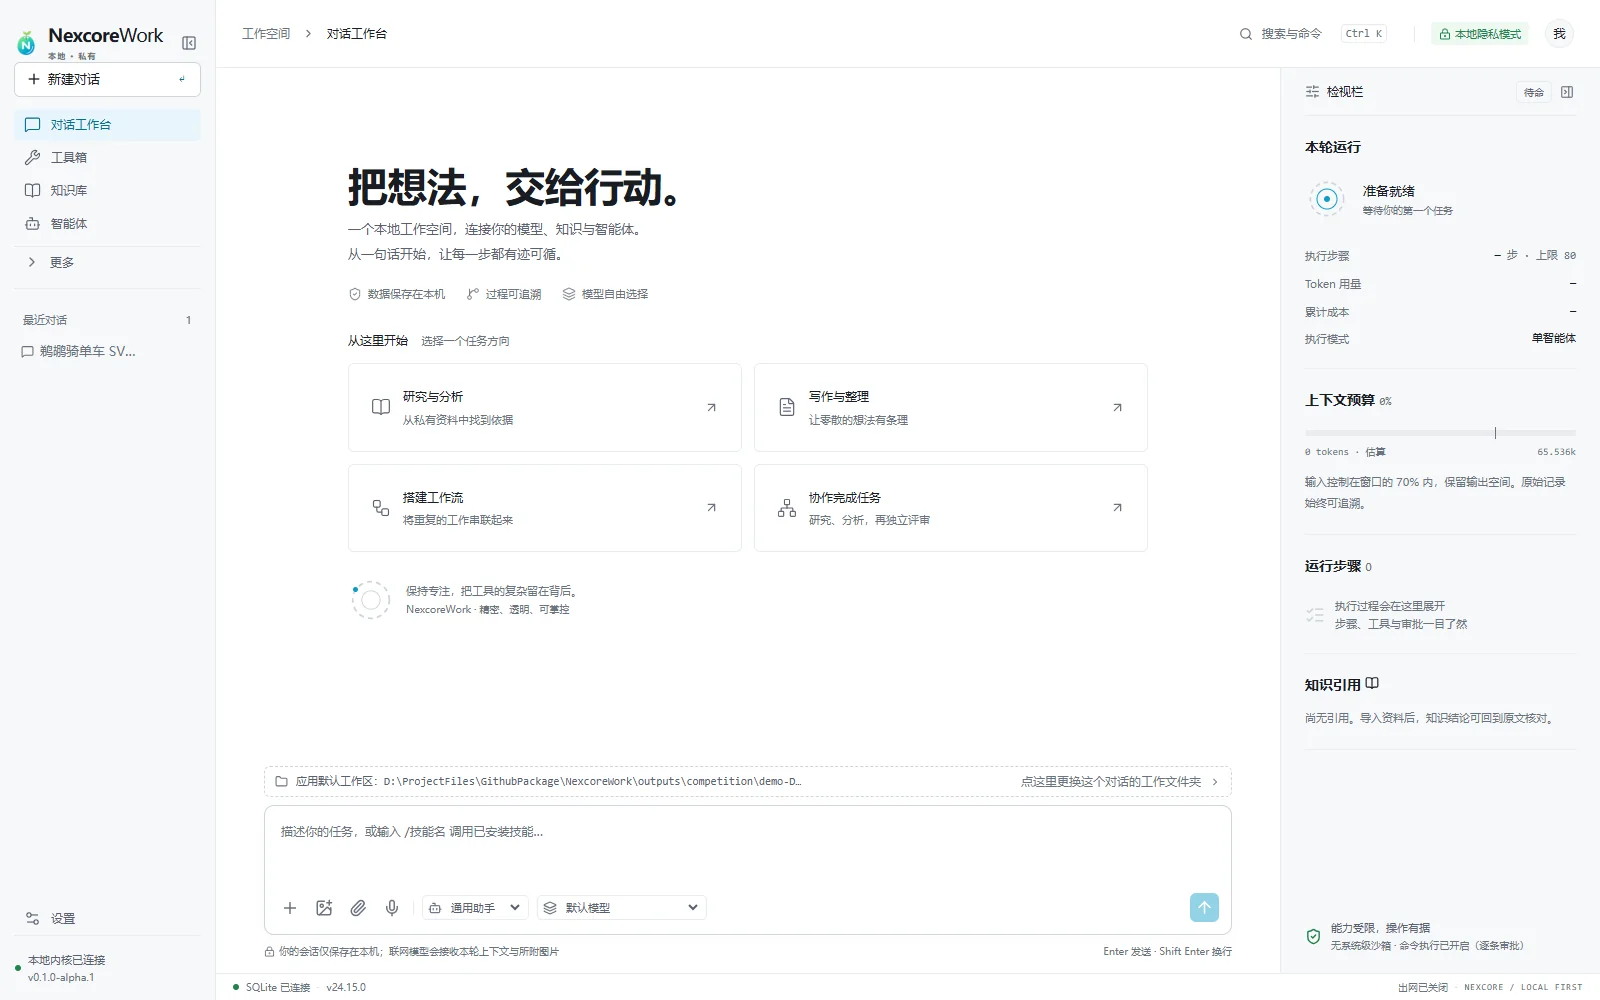
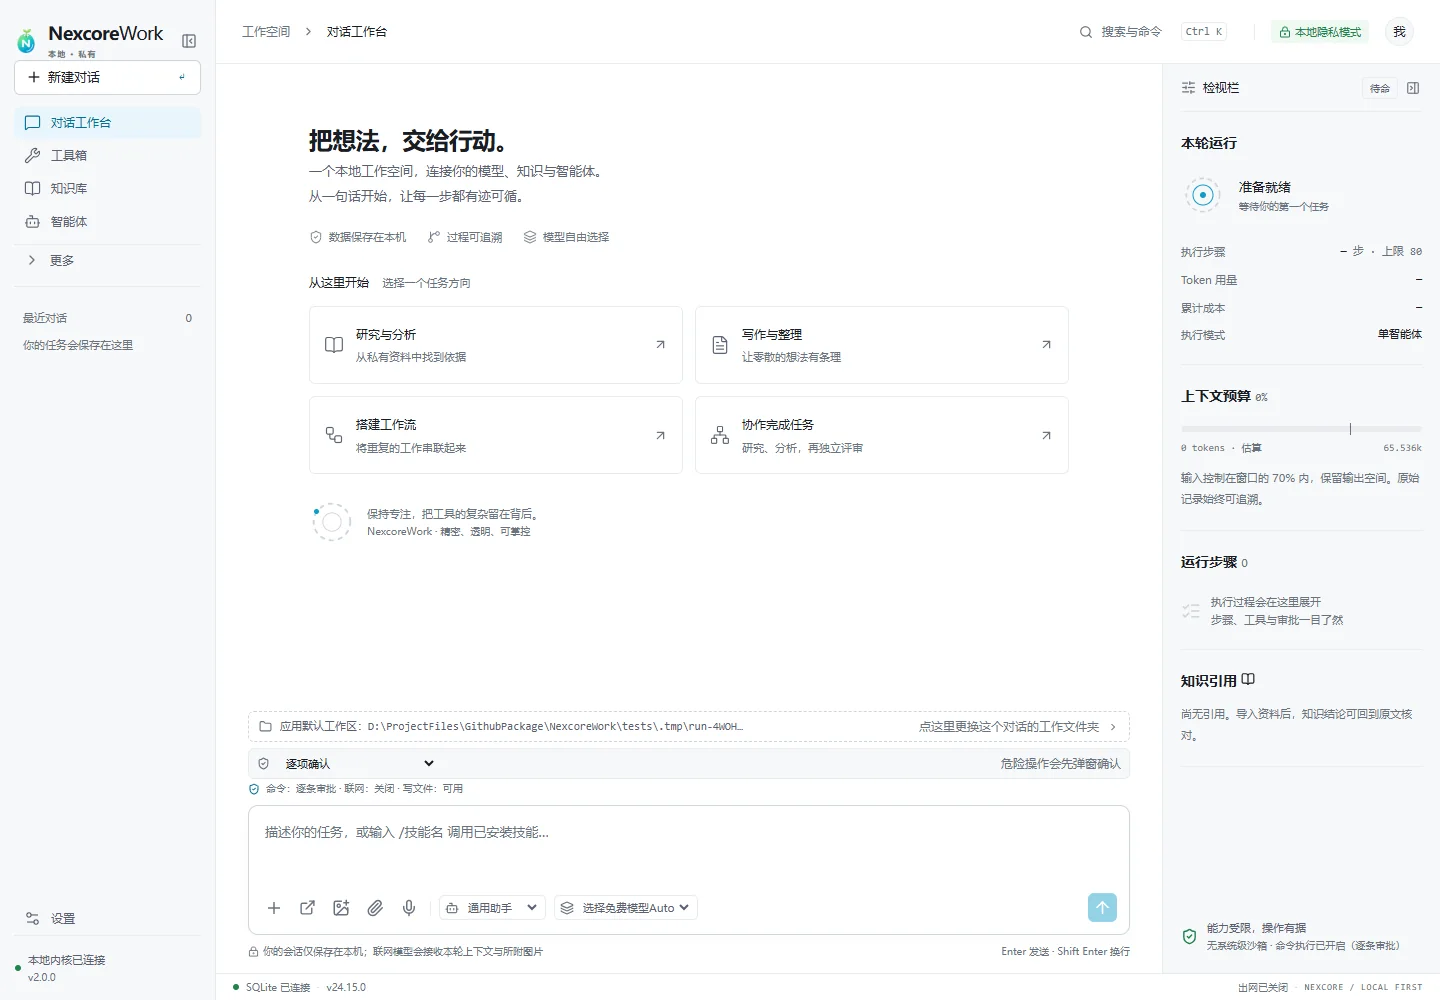
release: NexcoreWork 2.0.0 website and Android download

diff --git a/android.html b/android.html
@@ -1,0 +1,113 @@
+<!doctype html>
+<html lang="zh-CN">
+  <head>
+    <meta charset="utf-8">
+    <meta name="viewport" content="width=device-width, initial-scale=1">
+    <meta name="theme-color" content="#101914">
+    <meta name="description" content="NexcoreWork Android 手机端：通过同一局域网内的 Noise 端到端加密通道控制电脑工作区、查看任务、审批操作与接收通知。">
+    <title>NexcoreWork Android · 把电脑工作区装进口袋</title>
+    <link rel="icon" href="assets/brand/logo.svg" type="image/svg+xml">
+    <link rel="stylesheet" href="styles.css">
+    <link rel="stylesheet" href="android.css">
+  </head>
+  <body>
+    <a class="skip-link" href="#main">跳到主要内容</a>
+    <header class="site-header">
+      <a class="brand" href="index.html" aria-label="NexcoreWork 首页">
+        <img src="assets/brand/logo.svg" width="42" height="42" alt="">
+        <span><strong>Nexcore<span>Work</span></strong><small>启核 · 本地智能体工作台</small></span>
+      </a>
+      <nav id="siteNav" aria-label="主导航">
+        <a href="index.html">首页</a>
+        <a href="index.html#workbench">工作台</a>
+        <a href="index.html#models">模型路由</a>
+        <a href="android.html" aria-current="page">Android</a>
+      </nav>
+      <a class="header-cta" href="https://github.com/yan-stone-computer/nexcorework-site/releases/download/v2.0.0/NexcoreWork-Mobile-2.0.0.apk">下载 APK</a>
+      <button class="menu-toggle" id="menuToggle" type="button" aria-expanded="false" aria-controls="siteNav" aria-label="打开导航"><i></i><i></i></button>
+    </header>
+
+    <main id="main">
+      <section class="android-hero">
+        <div class="android-copy">
+          <p class="eyebrow"><span></span> NEXCOREWORK MOBILE · ANDROID</p>
+          <h1>把电脑工作区，<br><em>装进口袋。</em></h1>
+          <p class="lead">手机不是另一套智能体，而是电脑工作台的远程控制面。查看任务、审批操作、读取产物、继续对话，全部通过同一局域网内的 Noise 端到端加密通道完成。</p>
+          <div class="hero-actions">
+            <a class="button button-accent" href="https://github.com/yan-stone-computer/nexcorework-site/releases/download/v2.0.0/NexcoreWork-Mobile-2.0.0.apk">下载 Android APK <span>↓</span></a>
+            <a class="button button-quiet" href="https://github.com/yan-stone-computer/nexcorework-site/releases/download/v2.0.0/NexcoreWork-Setup-2.0.0.exe">先安装 Windows 电脑端 <span>↓</span></a>
+          </div>
+          <dl class="android-facts">
+            <div><dt>E2E</dt><dd>Noise 端到端加密</dd></div>
+            <div><dt>LAN</dt><dd>任务始终留在电脑</dd></div>
+            <div><dt>30d</dt><dd>设备令牌可随时撤销</dd></div>
+          </dl>
+        </div>
+        <figure class="android-download-card">
+          <img src="assets/brand/android-download.png" width="280" height="280" alt="Android APK 下载二维码">
+          <figcaption><strong>扫码下载 APK</strong><small>Android 7.0+ · APK v2 签名</small></figcaption>
+        </figure>
+      </section>
+
+      <section class="android-steps">
+        <div class="section-heading">
+          <p class="section-kicker">三步连接</p>
+          <h2>电脑负责执行，<br>手机负责掌控。</h2>
+        </div>
+        <ol>
+          <li><span>01</span><strong>安装并启动电脑端</strong><p>在 Windows 电脑上运行 NexcoreWork 2.0.0，新建或选择工作区。</p></li>
+          <li><span>02</span><strong>手机安装 APK</strong><p>扫描本页二维码下载，并在 Android 系统里允许本次安装未知来源应用。</p></li>
+          <li><span>03</span><strong>扫描电脑连接码</strong><p>电脑设置 → 手机控制 → 生成配对码，再用 NexcoreWork 手机端内扫描。两端必须在同一局域网。</p></li>
+        </ol>
+      </section>
+
+      <section class="android-gallery">
+        <div class="section-heading">
+          <p class="section-kicker">真实运行截图</p>
+          <h2>更适合手机的操作面。</h2>
+          <p>独立单栏布局、对话菜单、审批、设备权限和二维码配对，不是桌面页面的简单缩小版。</p>
+        </div>
+        <div class="android-grid">
+          <figure><img src="assets/screens/android-05-端到端配对.webp" alt="手机扫描电脑配对码" loading="lazy"><figcaption>一次扫码，先核对电脑身份指纹</figcaption></figure>
+          <figure><img src="assets/screens/android-04-原生通知与审批.webp" alt="手机端审批与任务通知" loading="lazy"><figcaption>审批与任务结果直达锁屏通知</figcaption></figure>
+          <figure><img src="assets/screens/android-01-手机工作区.webp" alt="手机端单栏工作区" loading="lazy"><figcaption>只保留任务、消息与审批</figcaption></figure>
+          <figure><img src="assets/screens/android-02-任务与复制.webp" alt="手机端任务消息与复制操作" loading="lazy"><figcaption>复制、修改、重新生成都在气泡下方</figcaption></figure>
+        </div>
+      </section>
+
+      <section class="android-security">
+        <div>
+          <p class="section-kicker">控制权不离开你</p>
+          <h2>端到端加密，<br>权限由电脑钳制。</h2>
+        </div>
+        <div class="android-security-grid">
+          <article><strong>Noise_XXpsk0</strong><p>一次性 PSK 与电脑公钥通过二维码交给手机，后续请求全部在加密 WebSocket 内传输。</p></article>
+          <article><strong>服务端权限钳制</strong><p>即使手机伪造“完全权限”，服务端也只允许电脑总工作区，无法逃逸到整块磁盘。</p></article>
+          <article><strong>设备可撤销</strong><p>设备令牌只存摘要，撤销后当前加密连接立即断开，推送订阅同步删除。</p></article>
+          <article><strong>数据仍在电脑</strong><p>模型、SQLite、项目记忆、附件和工具执行都留在电脑端，手机只负责控制与结果展示。</p></article>
+        </div>
+      </section>
+
+      <section class="download">
+        <div class="download-copy">
+          <p class="section-kicker">ANDROID 7.0+ · ARM64</p>
+          <h2>手机上继续，<br>电脑上完成。</h2>
+          <p>建议先安装 Windows 桌面端，再通过电脑端生成一次性连接二维码。</p>
+        </div>
+        <div class="download-card">
+          <div><span>NEXCOREWORK MOBILE</span><b>2.0.0</b></div>
+          <a class="button button-accent" href="https://github.com/yan-stone-computer/nexcorework-site/releases/download/v2.0.0/NexcoreWork-Mobile-2.0.0.apk">下载 APK <span>↓</span></a>
+          <small>当前为可安装的开发签名 APK，不是应用商店发布包。首次安装需在 Android 设置中允许本次安装。</small>
+        </div>
+      </section>
+    </main>
+
+    <footer class="site-footer">
+      <a class="brand brand-footer" href="index.html"><img src="assets/brand/logo.svg" width="34" height="34" alt=""><span><strong>NexcoreWork</strong><small>本地 · 私有 · 可核验</small></span></a>
+      <p>让智能体真的能做事，而且每一步都看得见。</p>
+      <div><a href="index.html">首页</a><a href="index.html#download">Windows</a><a href="android.html">Android</a></div>
+      <small>© 2026 NexcoreWork</small>
+    </footer>
+    <script src="app.js" defer></script>
+  </body>
+</html>

diff --git a/index.html b/index.html
@@ -21,8 +21,9 @@
         <a href="#execution">执行证据</a>
         <a href="#models">模型路由</a>
         <a href="#local">本地优先</a>
+        <a href="android.html">Android</a>
       </nav>
-      <a class="header-cta" href="https://github.com/yan-stone-computer/nexcorework-site/releases/download/v0.1.0-alpha.1/NexcoreWork-Setup-0.1.0-alpha.1.exe">下载 Windows 版</a>
+      <a class="header-cta" href="https://github.com/yan-stone-computer/nexcorework-site/releases/download/v2.0.0/NexcoreWork-Setup-2.0.0.exe">下载 Windows 版</a>
       <button class="menu-toggle" id="menuToggle" type="button" aria-expanded="false" aria-controls="siteNav" aria-label="打开导航"><i></i><i></i></button>
     </header>
 
@@ -34,15 +35,15 @@
             <h1>把想法，<br><em>交给行动。</em></h1>
             <p class="lead">NexcoreWork 把模型、工具、知识、记忆和工作流收进一台电脑。每一步都能看见，每一个结果都能复核。</p>
             <div class="hero-actions">
-              <a class="button button-accent" href="https://github.com/yan-stone-computer/nexcorework-site/releases/download/v0.1.0-alpha.1/NexcoreWork-Setup-0.1.0-alpha.1.exe">下载 Windows 版 <span>↗</span></a>
+              <a class="button button-accent" href="https://github.com/yan-stone-computer/nexcorework-site/releases/download/v2.0.0/NexcoreWork-Setup-2.0.0.exe">下载 Windows 版 <span>↗</span></a>
               <a class="button button-quiet" href="#workbench">看它如何工作 <span>↓</span></a>
               <a class="button button-live" href="http://127.0.0.1:4320/" target="_blank" rel="noreferrer">打开本机 NexcoreWork <span>↗</span></a>
             </div>
             <dl class="hero-stats">
               <div><dt>30</dt><dd>可审计工具</dd></div>
-              <div><dt>67</dt><dd>内置技能</dd></div>
+              <div><dt>68</dt><dd>内置技能</dd></div>
               <div><dt>9</dt><dd>专家智能体</dd></div>
-              <div><dt>154</dt><dd>集成测试</dd></div>
+              <div><dt>180</dt><dd>集成测试</dd></div>
             </dl>
           </div>
           <figure class="hero-stage" aria-label="NexcoreWork 产品运行界面">
@@ -127,7 +128,7 @@
           </div>
         </div>
         <figure class="model-shot reveal">
-          <img src="assets/screens/04-模型与免费端点.webp" width="1600" height="1000" alt="免费模型 Auto 与模型供应商界面" loading="lazy">
+          <img src="assets/screens/04-模型与免费端点.webp" width="1600" height="1000" alt="免费模型Auto 与模型供应商界面" loading="lazy">
           <figcaption><span>AUTO ROUTING</span><span>38 ms / route preview</span></figcaption>
         </figure>
       </section>
@@ -180,8 +181,8 @@
         <p class="section-kicker">交付不是一句“做完了”</p>
         <h2 id="proofTitle">把完成度放到台面上。</h2>
         <dl class="proof-grid reveal">
-          <div><dt>154</dt><dd>集成测试</dd><small>真实 HTTP、流式输出、工具与审批</small></div>
-          <div><dt>79</dt><dd>浏览器验收</dd><small>桌面、移动、键盘与可访问性</small></div>
+          <div><dt>180</dt><dd>集成测试</dd><small>真实 HTTP、流式输出、工具与审批</small></div>
+          <div><dt>85</dt><dd>浏览器验收</dd><small>桌面、移动、键盘与可访问性</small></div>
           <div><dt>0</dt><dd>类型错误</dd><small>TypeScript 检查与生产构建通过</small></div>
           <div><dt>本地</dt><dd>默认运行</dd><small>桌面与浏览器共用一份数据</small></div>
         </dl>
@@ -194,9 +195,10 @@
           <p>下载 NexcoreWork，把模型、工具、知识与记忆放到同一张本机工作台。</p>
         </div>
         <div class="download-card reveal">
-          <div><span>NEXCOREWORK</span><b>0.1.0-alpha.1</b></div>
-          <a class="button button-accent" href="https://github.com/yan-stone-computer/nexcorework-site/releases/download/v0.1.0-alpha.1/NexcoreWork-Setup-0.1.0-alpha.1.exe">下载安装包 <span>↗</span></a>
-          <small>安装包约 108 MB。首次启动后选择工作区，并允许需要的模型端点联网。</small>
+          <div><span>NEXCOREWORK</span><b>2.0.0</b></div>
+          <a class="button button-accent" href="https://github.com/yan-stone-computer/nexcorework-site/releases/download/v2.0.0/NexcoreWork-Setup-2.0.0.exe">下载安装包 <span>↗</span></a>
+          <a class="button button-quiet" href="android.html">Android 手机端 <span>↗</span></a>
+          <small>安装包约 162 MB。首次启动后选择工作区，并允许需要的模型端点联网。</small>
         </div>
       </section>
     </main>

diff --git a/android.css b/android.css
@@ -1,0 +1,42 @@
+.android-hero{min-height:760px;display:grid;grid-template-columns:minmax(0,1.25fr) minmax(260px,.75fr);gap:80px;align-items:center;padding:112px max(7vw,28px) 76px;border-bottom:1px solid var(--line)}
+.android-copy h1{font-size:clamp(56px,7.5vw,112px);line-height:.96;letter-spacing:-.065em;margin:24px 0 30px}
+.android-copy h1 em{font-family:var(--font-serif);font-weight:400;color:var(--accent)}
+.android-copy .lead{max-width:720px}
+.android-facts{display:grid;grid-template-columns:repeat(3,1fr);gap:16px;margin:48px 0 0;max-width:700px}
+.android-facts div{padding-top:18px;border-top:1px solid var(--line)}
+.android-facts dt{font-family:var(--font-mono);font-size:22px;color:var(--accent)}
+.android-facts dd{margin:8px 0 0;font-size:13px;color:var(--muted)}
+.android-download-card{margin:0;padding:24px;border:1px solid var(--line);background:var(--paper-soft);box-shadow:var(--shadow);transform:rotate(1.5deg)}
+.android-download-card img{display:block;width:100%;height:auto;background:#fff}
+.android-download-card figcaption{display:flex;flex-direction:column;gap:5px;padding-top:18px;text-align:center}
+.android-download-card strong{font-size:16px}.android-download-card small{color:var(--muted)}
+.android-steps,.android-gallery,.android-security{padding:100px max(7vw,28px)}
+.android-steps{border-bottom:1px solid var(--line)}
+.android-steps>ol{list-style:none;margin:54px 0 0;padding:0;display:grid;grid-template-columns:repeat(3,1fr);gap:20px}
+.android-steps>ol li{position:relative;padding:28px;border:1px solid var(--line);background:var(--paper-soft);min-height:210px}
+.android-steps>ol span{font-family:var(--font-mono);font-size:12px;color:var(--accent)}
+.android-steps>ol strong{display:block;margin:45px 0 12px;font-size:20px}
+.android-steps>ol p{margin:0;color:var(--muted);line-height:1.8}
+.android-grid{display:grid;grid-template-columns:repeat(4,1fr);gap:18px;align-items:start}
+.android-grid figure{margin:0;padding:10px;border:1px solid var(--line);background:var(--paper-soft)}
+.android-grid img{display:block;width:100%;height:auto;aspect-ratio:390/844;object-fit:cover;object-position:top;background:#0d1510}
+.android-grid figure:nth-child(n+3) img{aspect-ratio:9/20}
+.android-grid figcaption{padding:14px 8px 8px;font-size:12px;color:var(--muted)}
+.android-security{display:grid;grid-template-columns:.85fr 1.15fr;gap:64px;border-top:1px solid var(--line);border-bottom:1px solid var(--line);background:var(--ink);color:var(--white)}
+.android-security .section-kicker{color:var(--accent-soft)}
+.android-security h2{font-size:clamp(42px,5vw,76px);line-height:1.02;letter-spacing:-.05em}
+.android-security-grid{display:grid;grid-template-columns:1fr 1fr;gap:1px;background:#ffffff22}
+.android-security-grid article{padding:28px;background:var(--ink)}
+.android-security-grid strong{font-size:17px;color:var(--accent-soft)}
+.android-security-grid p{margin:14px 0 0;color:#c6cdc8;line-height:1.8;font-size:14px}
+@media(max-width:900px){
+  .android-hero{grid-template-columns:1fr;gap:42px;padding-top:80px}
+  .android-download-card{max-width:320px;margin:auto}
+  .android-steps>ol,.android-grid{grid-template-columns:1fr 1fr}
+  .android-security{grid-template-columns:1fr}
+}
+@media(max-width:620px){
+  .android-hero,.android-steps,.android-gallery,.android-security{padding-left:22px;padding-right:22px}
+  .android-facts,.android-steps>ol,.android-grid,.android-security-grid{grid-template-columns:1fr}
+  .android-copy h1{font-size:52px}
+}

diff --git a/README.md b/README.md
@@ -1,6 +1,6 @@
 # NexcoreWork 官网
 
-零依赖静态官网，展示 NexcoreWork 的本地优先架构、可核验执行过程、免费模型 Auto、工具与知识能力。
+零依赖静态官网，展示 NexcoreWork 的本地优先架构、可核验执行过程、免费模型Auto、工具与知识能力。
 
 ## 本地预览
 
@@ -12,7 +12,13 @@ python -m http.server 8096
 
 ## 下载
 
-官网按钮指向 GitHub Releases 中的 Windows 安装包。当前版本为 `0.1.0-alpha.1`。
+官网按钮指向 GitHub Releases 中的 Windows 安装包与 Android APK。当前版本为 `2.0.0`。
+
+## Android 页面
+
+`android.html` 是独立的 Android 下载与使用说明页，包含 APK 下载二维码、三步连接流程、
+手机端真实截图、Noise 端到端加密与权限边界说明。所有安装包统一发布到
+`yan-stone-computer/nexcorework-site` 的 `v2.0.0` Release。
 
 ## 素材
 

diff --git a/DESIGN.md b/DESIGN.md
@@ -10,7 +10,7 @@
 2. 工作台：产品到底是什么，以及从选工作区到查看证据的三步路径。
 3. 执行证据：步骤、工具、耗时、文件行变化与审批。
 4. 上下文：四区块预算和固定顺序降级。
-5. 模型路由：免费模型 Auto、能力筛选和失败切换。
+5. 模型路由：免费模型Auto、能力筛选和失败切换。
 6. 能力面：知识、记忆、工作流、工具与技能的非对称拼版。
 7. 本地边界、验证数字和下载。
 
